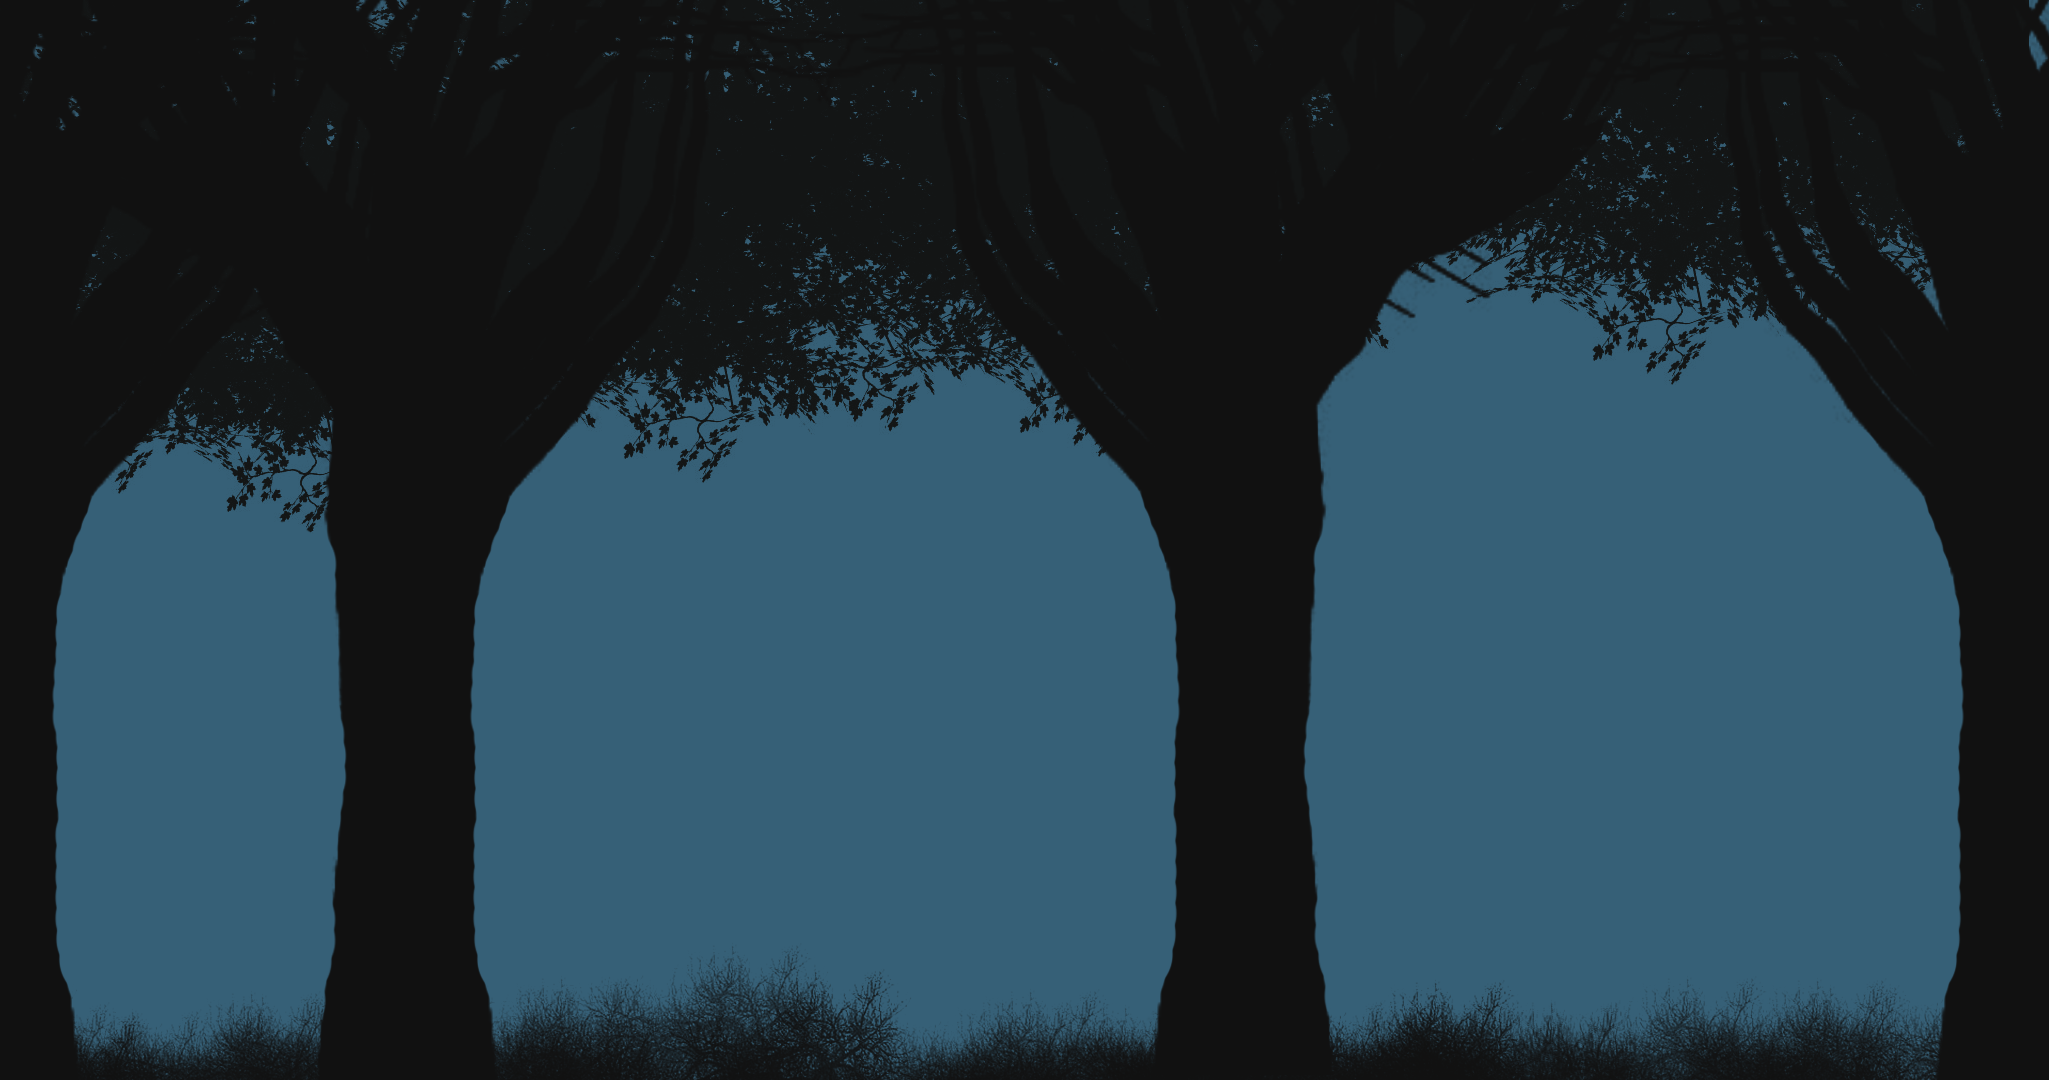
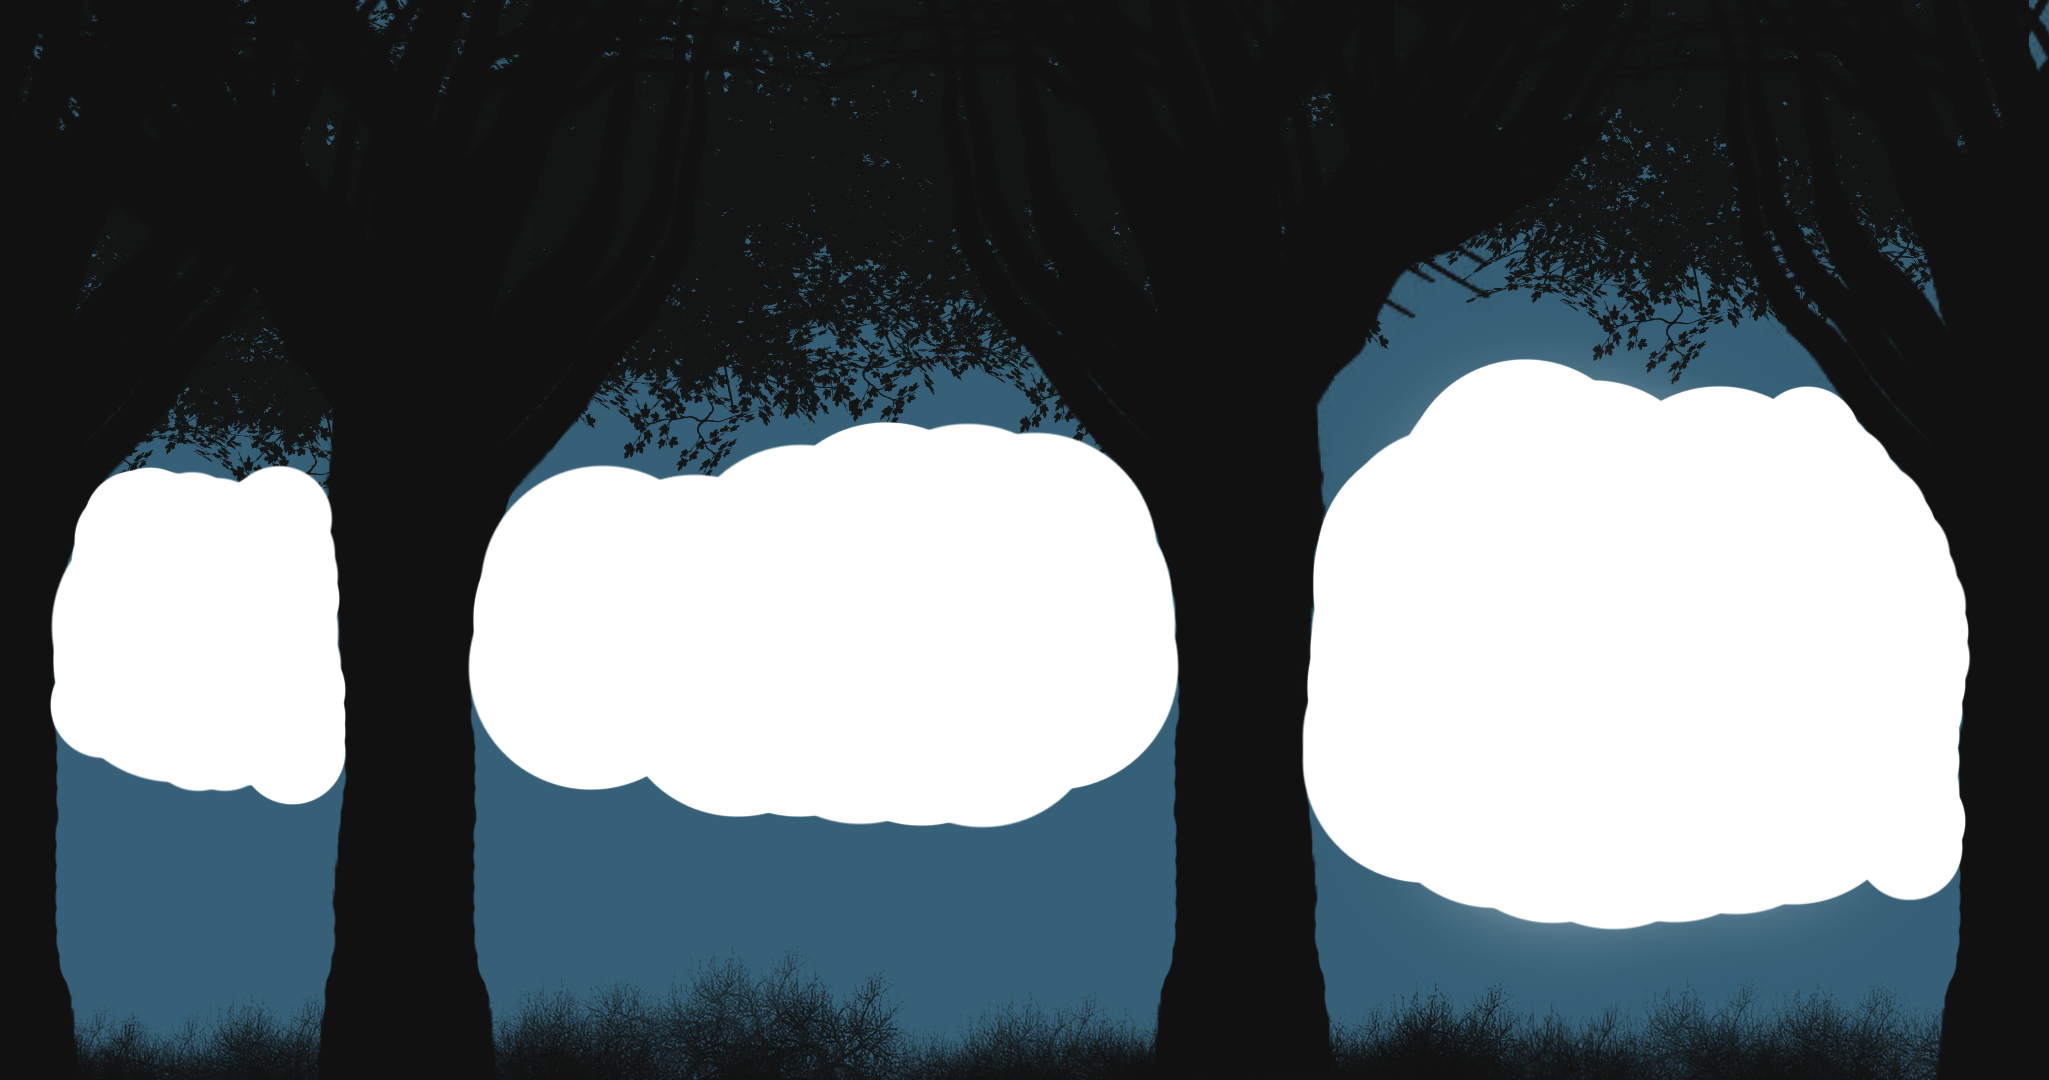
added sun/moon position for each lvl, added messages for lvl2-5, fixed sum assets

Changed region(s): [[0.6247, 0.3361, 0.9683, 0.8861], [0.2186, 0.3667, 0.5935, 0.7639], [0.0, 0.4278, 0.1874, 0.7639]]

diff --git a/src/includes/LevelData.js b/src/includes/LevelData.js
@@ -24,39 +24,39 @@ class LevelData {
     //new Pond(this.game, , , 1, collisionGroups.interactionCollision), 
     //new Checkpoint(this.game, , , 1, collisionGroups.interactionCollision), 
 
-	constructor(game){
-		this.game = game;
+    constructor(game){
+        this.game = game;
 
-		//init helpers
-		this.helpers = new Helpers(this.game);
-		this.lvlId = this.game.lvlId;
-	}
+        //init helpers
+        this.helpers = new Helpers(this.game);
+        this.lvlId = this.game.lvlId;
+    }
 
-	fetch(collisionGroups) {
-		let data = new Array();
+    fetch(collisionGroups) {
+        let data = new Array();
 
-		switch(this.lvlId) {
-			case 1: data = this.lvl1Data(collisionGroups);
-				break;
-			case 2: data = this.lvl2Data(collisionGroups);
-				break;
-			case 3: data = this.lvl3Data(collisionGroups);
-				break;
-			case 4: data = this.lvl4Data(collisionGroups);
-				break;
-			case 5: data = this.lvl5Data(collisionGroups);
-				break;
-			default: 
-				this.game.state.start("LevelSelect", true, false);
-		}
+        switch(this.lvlId) {
+            case 1: data = this.lvl1Data(collisionGroups);
+                break;
+            case 2: data = this.lvl2Data(collisionGroups);
+                break;
+            case 3: data = this.lvl3Data(collisionGroups);
+                break;
+            case 4: data = this.lvl4Data(collisionGroups);
+                break;
+            case 5: data = this.lvl5Data(collisionGroups);
+                break;
+            default: 
+                this.game.state.start("LevelSelect", true, false);
+        }
 
-		return data;
-	}
+        return data;
+    }
 
-	lvl1Data(collisionGroups) {
+    lvl1Data(collisionGroups) {
         this.game.fog = true;
         this.game.lvlFillColor = '#354a55';
-		this.game.lvlIntroText = "... Beware of the Shadows swallowed by fog ...";
+        this.game.lvlIntroText = "... Beware of the Shadows swallowed by Fog ...";
 
         let lvlObjects = [
             new Rock(this.game, 2500, -50, 1, collisionGroups.obstaclesCollision),
@@ -138,16 +138,16 @@ class LevelData {
         lvlObjects.push(new Checkpoint(this.game, 40000-2000, 0, 1, collisionGroups.interactionCollision));
 
         return lvlObjects;
-	}
+    }
 
-	lvl2Data(collisionGroups) {
+    lvl2Data(collisionGroups) {
         this.game.fog = true;
         this.game.lvlFillColor = '#355455';
-		this.game.lvlIntroText = "... Level 2 ...";
+        this.game.lvlIntroText = "... A danger that lurks below ...";
 
-		let lvlObjects = [//42000
+        let lvlObjects = [//42000
             new Rock(this.game, 3200, 100, 1, collisionGroups.obstaclesCollision),
-		
+        
             new Checkpoint(this.game, 54760-47000, 0, 1, collisionGroups.interactionCollision),
             new Bitmap(this.game, 'Platform', 55000-47000, 0, 40, 150, 0, collisionGroups.obstaclesCollision, true),   
             new Bitmap(this.game, 'Platform', 55000+220-47000, 150, 500, 40, 0, collisionGroups.obstaclesCollision, true),
@@ -175,7 +175,7 @@ class LevelData {
             new Bitmap(this.game, 'Platform', 58760+1320-740-47000, 230, 500, 40, 0, collisionGroups.obstaclesCollision, true),
             new Bitmap(this.game, 'Platform', 58760+1100-740-47000, 0, 40, 400, 0, collisionGroups.obstaclesCollision, true),    
             new Bitmap(this.game, 'Platform', 58760+1540-740-47000, 0, 40, 400, 0, collisionGroups.obstaclesCollision, true),
-	
+    
             new Checkpoint(this.game, 60400-47000, 0, 1, collisionGroups.interactionCollision),
             new Pond(this.game, 61000-47000, 0, 1, collisionGroups.interactionCollision), 
             new Spikes(this.game, 61300-47000, 0, 1, collisionGroups.obstaclesCollision), 
@@ -223,7 +223,7 @@ class LevelData {
             new Orb(this.game, 80200+1000-47000, 520, 1, collisionGroups.interactionCollision), 
             new Rock(this.game, 80300+1000-47000, 160, 1, collisionGroups.obstaclesCollision),
             new Rock(this.game, 80400+1000-47000, 100, 1, collisionGroups.obstaclesCollision),     
-		];
+        ];
 
         lvlObjects = this.helpers.linearOrbGenerator(collisionGroups.interactionCollision, lvlObjects, 6, 48000-47000, 70, 360);
         lvlObjects = this.helpers.bitmapPlatformGenerator(collisionGroups.obstaclesCollision, lvlObjects, 51060-47000, 0, false);
@@ -233,15 +233,15 @@ class LevelData {
 
         lvlObjects.push(new Checkpoint(this.game, 80400+1000-46000, 0, 1, collisionGroups.interactionCollision));
 
-		return lvlObjects;
-	}
+        return lvlObjects;
+    }
 
-	lvl3Data(collisionGroups) {
+    lvl3Data(collisionGroups) {
         this.game.fog = true;
-        this.game.lvlFillColor = '#0c85ca';
-		this.game.lvlIntroText = "... Level 3 ...";
+        this.game.lvlFillColor = '#366077';
+        this.game.lvlIntroText = "... Darkness grasps The Middle of the Night ...";
 
-		let lvlObjects = [//78000
+        let lvlObjects = [//78000
             new Rock(this.game, 1000, 100, 1, collisionGroups.obstaclesCollision),
             new Rock(this.game, 1200, 160, 1, collisionGroups.obstaclesCollision),  
             new Rock(this.game, 1300, 220, 1, collisionGroups.obstaclesCollision),
@@ -289,21 +289,21 @@ class LevelData {
             new Orb(this.game, 92900+1000-78000, 520, 1, collisionGroups.interactionCollision), 
             new Rock(this.game, 93000+1000-78000, 160, 1, collisionGroups.obstaclesCollision),
             new Rock(this.game, 93100+1000-78000, 100, 1, collisionGroups.obstaclesCollision), 
-		];
+        ];
 
         lvlObjects = this.helpers.bitmapPlatformGenerator(collisionGroups.obstaclesCollision, lvlObjects, 84850+1000-78000, 0, true);
 
-     	lvlObjects.push(new Checkpoint(this.game, 95000-78000, 0, 1, collisionGroups.interactionCollision));
+        lvlObjects.push(new Checkpoint(this.game, 95000-78000, 0, 1, collisionGroups.interactionCollision));
 
-		return lvlObjects;
-	}
+        return lvlObjects;
+    }
 
-	lvl4Data(collisionGroups) {
+    lvl4Data(collisionGroups) {
         this.game.fog = true;
         this.game.lvlFillColor = '#366077';
-		this.game.lvlIntroText = "... Level 4 ...";
+        this.game.lvlIntroText = "... Fog still holds her Strings ...";
 
-		let lvlObjects = [
+        let lvlObjects = [
             new Checkpoint(this.game, 2500-1000, 0, 1, collisionGroups.interactionCollision),
             new PuzzleObstacle(this.game, 2800-1000, 0, 1, collisionGroups.puzzleCollision),
             new PuzzleObstacle(this.game, 3300-1000, 0, 1, collisionGroups.puzzleCollision),
@@ -311,20 +311,21 @@ class LevelData {
             new Checkpoint(this.game, 5000, 0, 1, collisionGroups.interactionCollision),
         ];
 
-		return lvlObjects;
-	}
+        return lvlObjects;
+    }
 
-	lvl5Data(collisionGroups) {
+    lvl5Data(collisionGroups) {
+        this.game.day = true;
         this.game.fog = true;
         this.game.lvlFillColor = '#6a95ad';
-		this.game.lvlIntroText = "... Level 5 ...";
+        this.game.lvlIntroText = "... New Dawn ...";
 
-		let lvlObjects = [
-			new Checkpoint(this.game, 1000, 0, 1, collisionGroups.interactionCollision),
-		];
+        let lvlObjects = [
+            new Checkpoint(this.game, 4000, 0, 1, collisionGroups.interactionCollision),
+        ];
 
-		return lvlObjects;
-	}
+        return lvlObjects;
+    }
 }
 
 export default LevelData;

diff --git a/src/states/Main.js b/src/states/Main.js
@@ -17,6 +17,7 @@ class Main extends Phaser.State {
         this.game.debugMode = false;
         this.game.ready = false;
         this.game.end = false;
+        this.game.day = false;
         this.game.soundsDecoded = false;
         this.game.sounds = new Object();
         this.helpers = new Helpers(this.game);
@@ -71,8 +72,10 @@ class Main extends Phaser.State {
         this.backgroundSprite = this.game.add.sprite(0, 0, bgBitMap);
 
         //create sun and moon 
-        this.sunSprite = this.game.add.sprite(50, -250, 'sun');
-        this.moonSprite = this.game.add.sprite(this.game.width - (this.game.width / 4), this.game.height + 500, 'moon');
+        this.sunSprite = this.game.add.sprite(this.game.width/2-276/2, 750, 'sun');
+        this.moonSprite = this.game.add.sprite(this.game.width - (this.game.width / 4), 150*this.game.lvlId, 'moon');
+        this.moonSprite.visible = false;
+        this.sunSprite.visible = false;
 
         //create game backgrounds
         this.backgroundMid = this.game.add.tileSprite(0, 
@@ -114,8 +117,12 @@ class Main extends Phaser.State {
         this.game.lvlObjects[this.game.lvlObjects.length-1].sprite.oType = 'EndGame';
 
         //init day night cycle
-        this.dayCycle = new DayCycle(this.game, 5000);
-        this.dayCycle.initMoon(this.moonSprite);
+        this.dayCycle = new DayCycle(this.game, 0);
+        if(!this.game.day) {
+            this.dayCycle.initMoon(this.moonSprite);
+        } else {
+            this.dayCycle.initSun(this.sunSprite);
+        }
 
         //apply day night shading 
         this.dayCycle.initShading(backgroundSprites);
@@ -131,7 +138,7 @@ class Main extends Phaser.State {
         if(this.game.fog) {
             this.weather.addFog();
         }
-        
+
         //background sounds
         this.game.sounds.backgroundRain = this.game.add.audio('background-rain', 1, true);
         this.game.sounds.backgroundWind = this.game.add.audio('background-wind', 0.2, true);
@@ -229,7 +236,11 @@ class Main extends Phaser.State {
             this.game.ready = false;
             this.helpers.api({progress: this.game.progress, status: 'win'});
 
-            this.showLoadingMessage("... Loading, please wait ...", this.gameEnd);
+            if(this.game.lvlId==this.game.lastLvlId) {
+                this.showLoadingMessage("... Wake Up!! ...", this.gameEnd);
+            } else {
+                this.showLoadingMessage("... Loading, please wait ...", this.gameEnd);
+            }
 
             return;
         }

diff --git a/src/objects/DayCycle.js b/src/objects/DayCycle.js
@@ -10,12 +10,14 @@ class DayCycle {
  
     initSun(sprite) {
         this.sunSprite = sprite;
-        this.sunset(sprite);
+        this.sunSprite.visible = true;
+        //this.sunset(sprite);
     }
  
     initMoon(sprite) {
         this.moonSprite = sprite;
-        this.moonrise(sprite);
+        this.moonSprite.visible = true;
+        //this.moonrise(sprite);
     }
  
     initShading(sprites){
